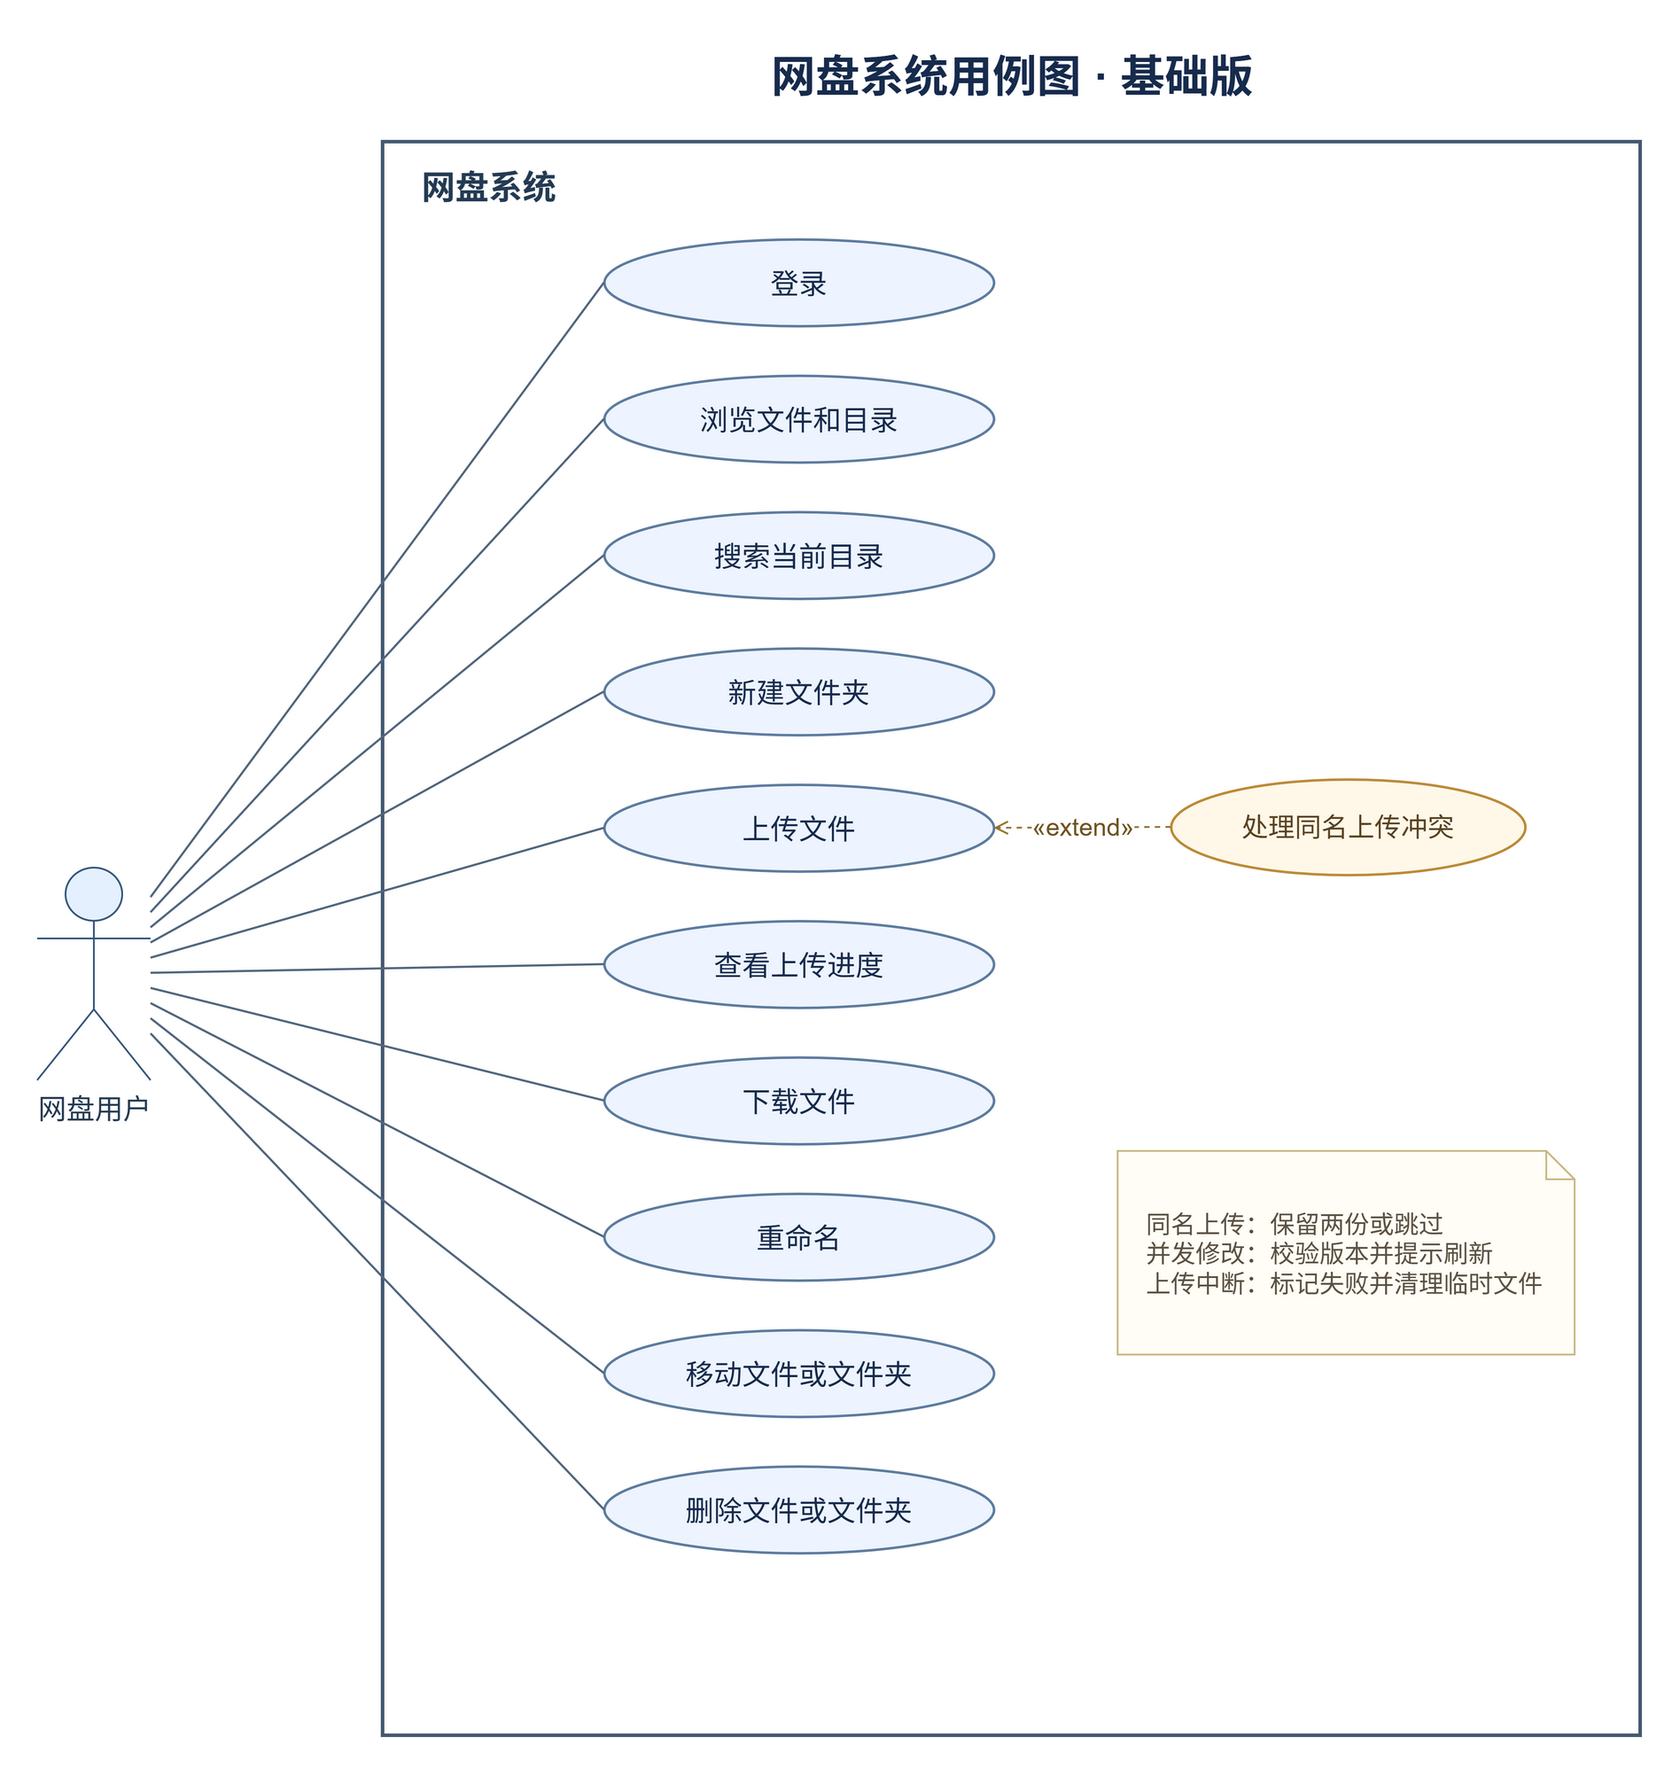
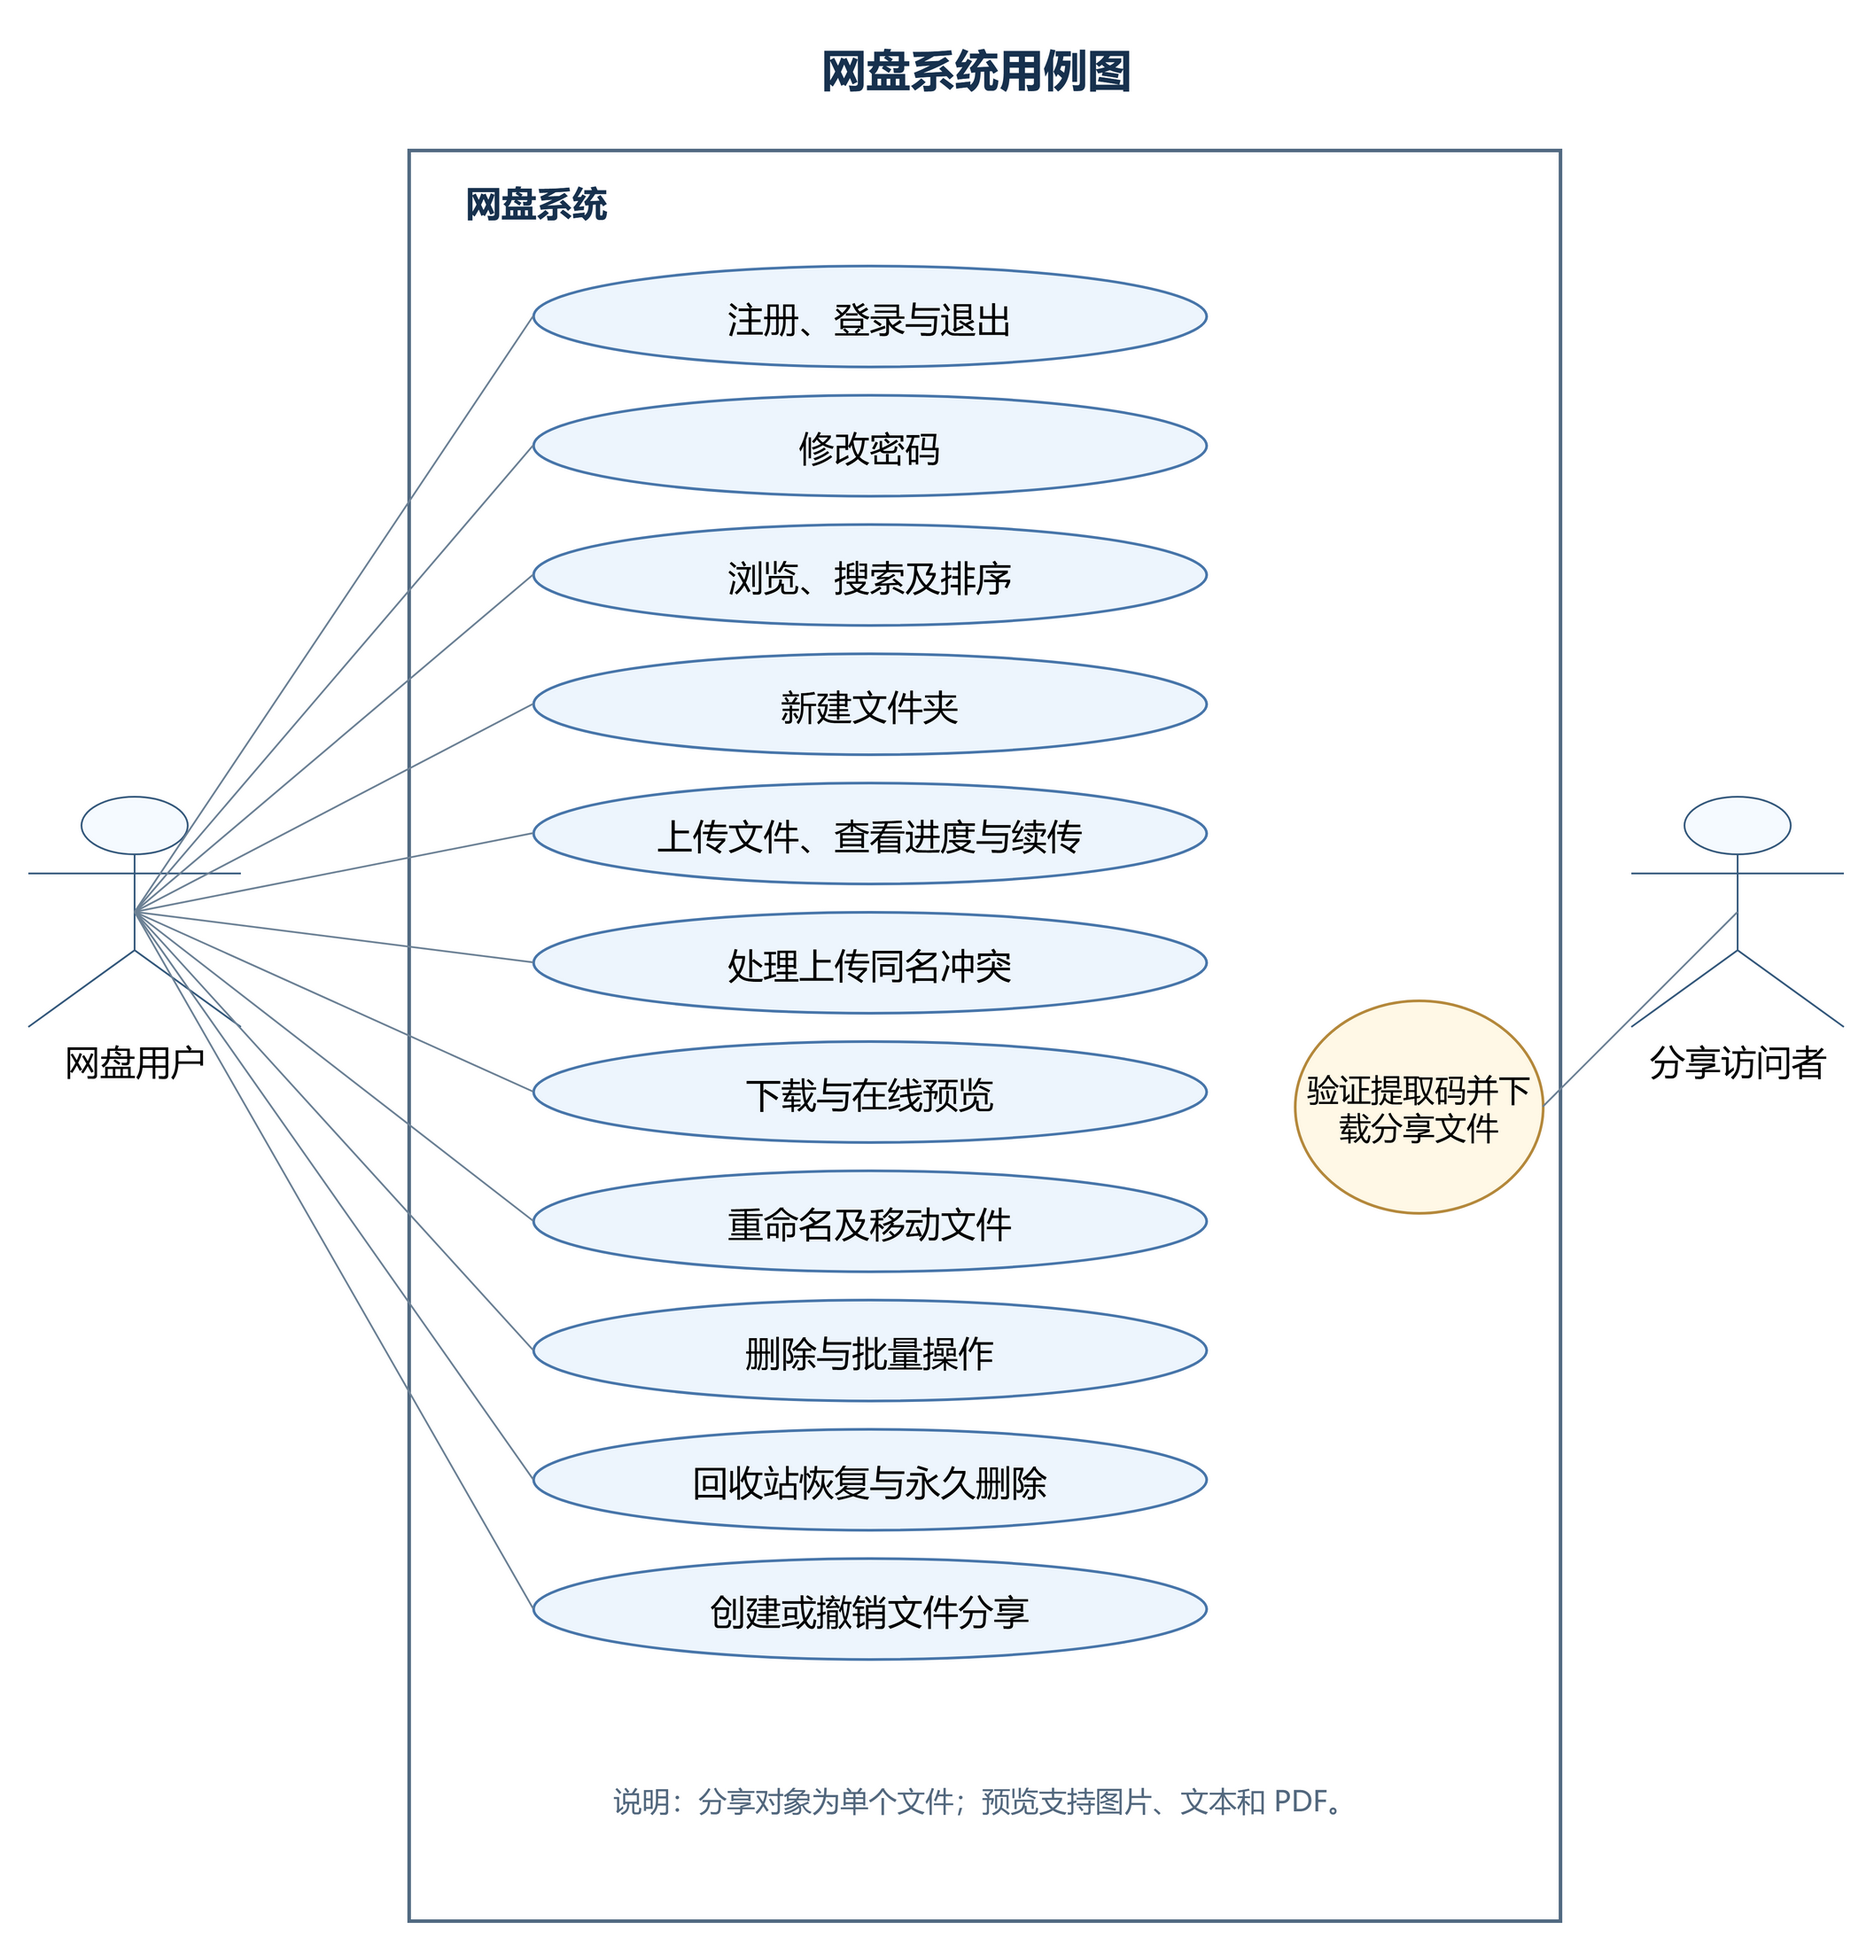
docs: update netdisk UML diagrams

diff --git a/docs/design/uml/README.md b/docs/design/uml/README.md
@@ -1,0 +1,10 @@
+# 网盘系统 UML 设计图
+
+`src/` 保存 draw.io 可编辑源文件，`png/` 保存使用 draw.io Desktop 导出的对应图片。
+
+- `netdisk-use-case`：系统用户及文件分享访问者的主要用例。
+- `netdisk-class`：主要控制器、服务和数据访问组件的职责及部分依赖关系，非完整代码类图。
+- `netdisk-database-erd`：主要数据库表、关键字段和部分外键关系；其他外键在字段中标明。
+- `upload-conflict-flow`：分片上传、补传和同名冲突处理流程。
+
+图的内容依据 2026-11-24 核对的集成工作树 `/opt/netdisk/worktrees/course-integrated`（提交 `4b320b3`）及其数据库设计和迁移脚本绘制。项目根目录当时检出的提交为 `2d7505f`，其代码可能早于该集成版本；图不能视为该检出版本已包含全部功能的证明。后续代码或数据库调整后，应同步核对并更新图。
